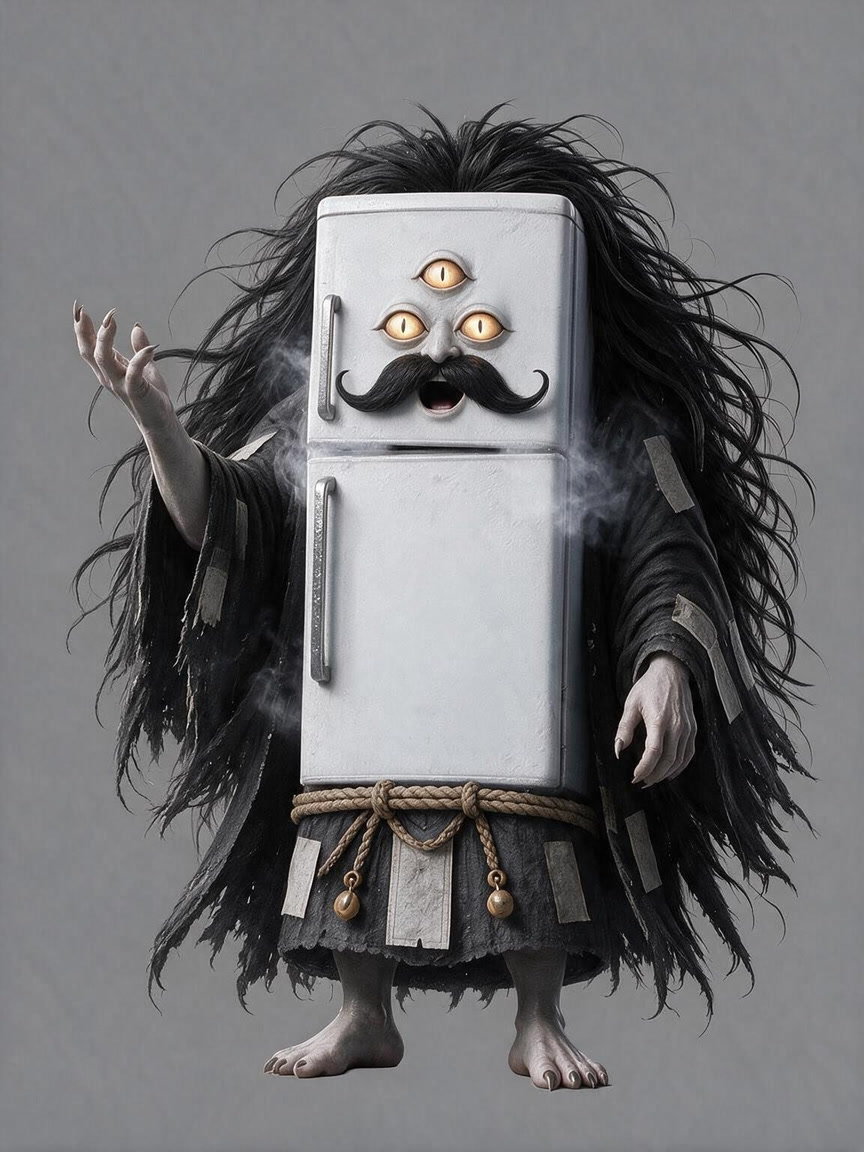
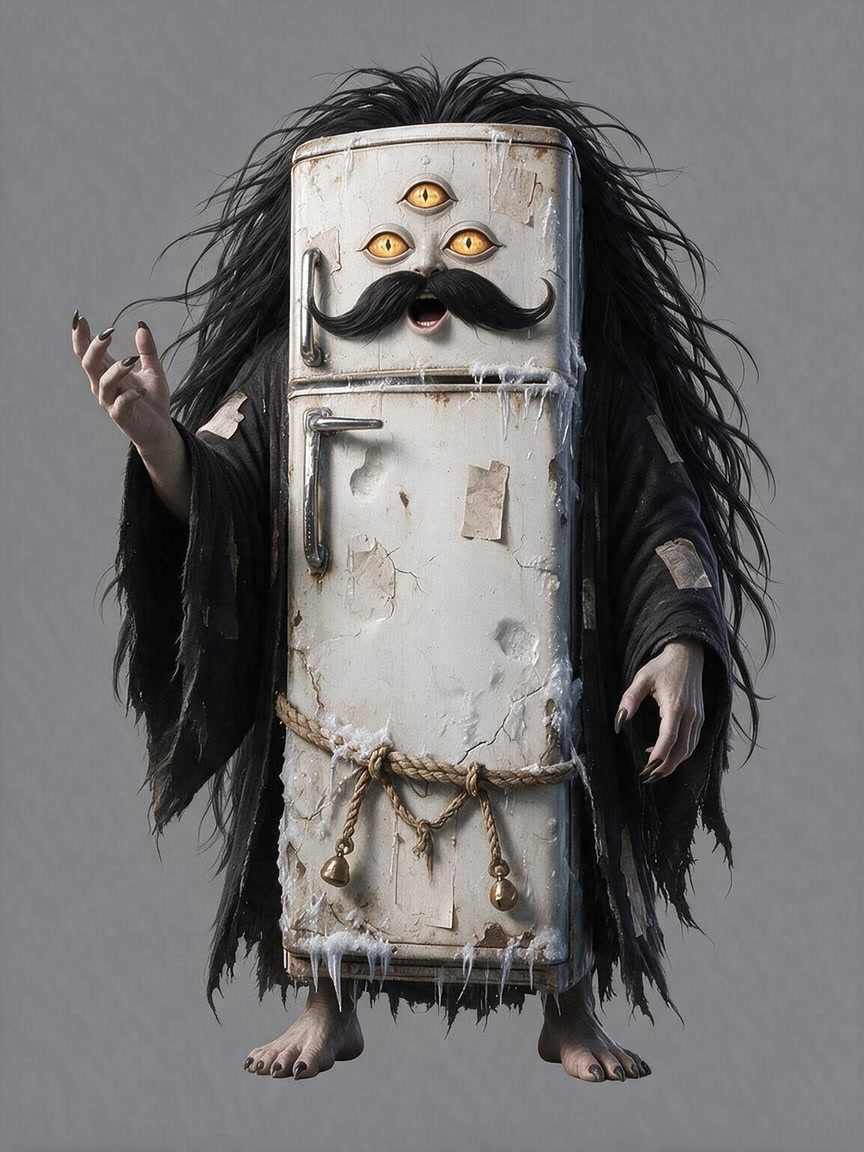
UI art: new pictures [skip ci]

diff --git a/apps/web/public/onboarding/s/last-run.md b/apps/web/public/onboarding/s/last-run.md
@@ -1,7 +1,7 @@
-# UI art — 2026-10-26T22:58:12.504Z
+# UI art — 2026-10-26T23:01:07.471Z
 
 Seedream 5.0 Pro / 3枚 / 約7円
 
-- ✅ freezy-x-joy
-- ✅ freezy-x-shock
-- ✅ freezy-x-talk
+- ✅ freezy-x-joy-o
+- ✅ freezy-x-shock-o
+- ✅ freezy-x-talk-o

diff --git a/apps/web/public/atelier/raw/last-run.md b/apps/web/public/atelier/raw/last-run.md
@@ -1,4 +1,4 @@
-# UI art — 2026-10-26T22:58:12.533Z
+# UI art — 2026-10-26T23:01:07.508Z
 
 Seedream 5.0 Pro / 0枚 / 約0円
 

diff --git a/apps/web/public/dj/art/last-run.md b/apps/web/public/dj/art/last-run.md
@@ -1,4 +1,4 @@
-# UI art — 2026-10-26T22:57:34.887Z
+# UI art — 2026-10-26T23:00:25.724Z
 
 Seedream 5.0 Pro / 0枚 / 約0円
 

diff --git a/apps/web/public/ui/parts/raw/last-run.md b/apps/web/public/ui/parts/raw/last-run.md
@@ -1,4 +1,4 @@
-# UI art — 2026-10-26T22:58:12.560Z
+# UI art — 2026-10-26T23:01:07.542Z
 
 Seedream 5.0 Pro / 0枚 / 約0円
 
